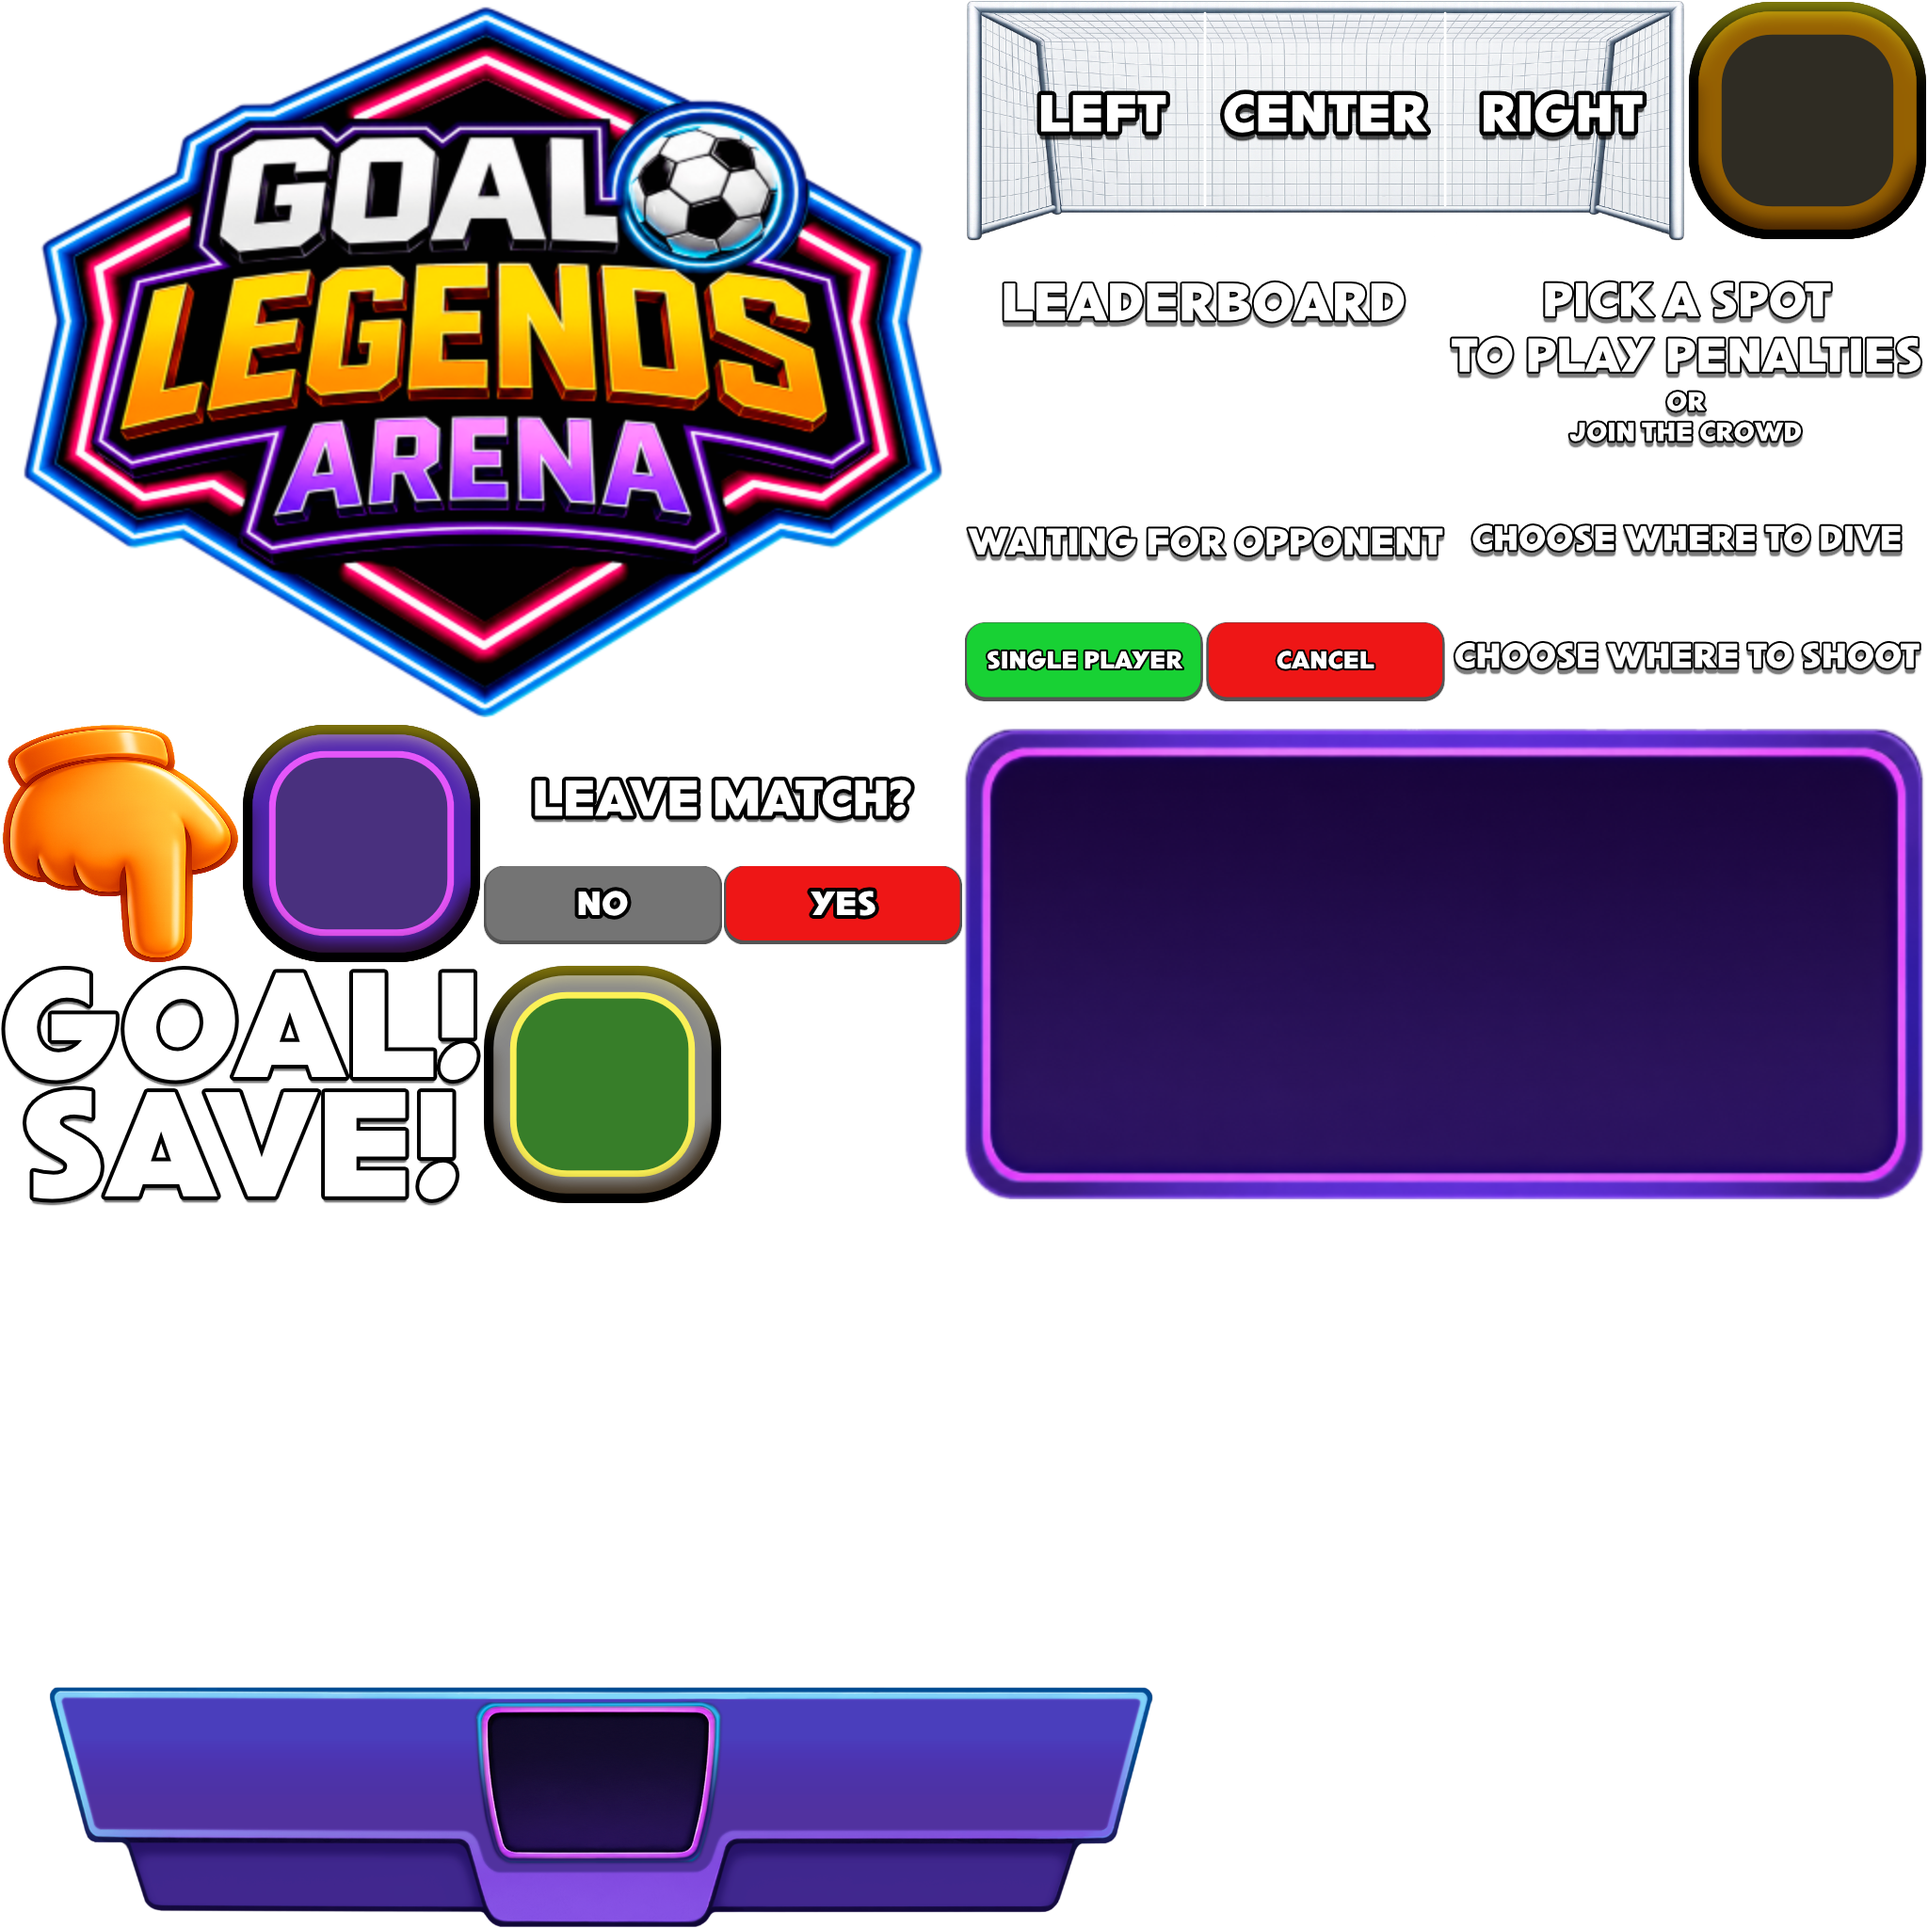
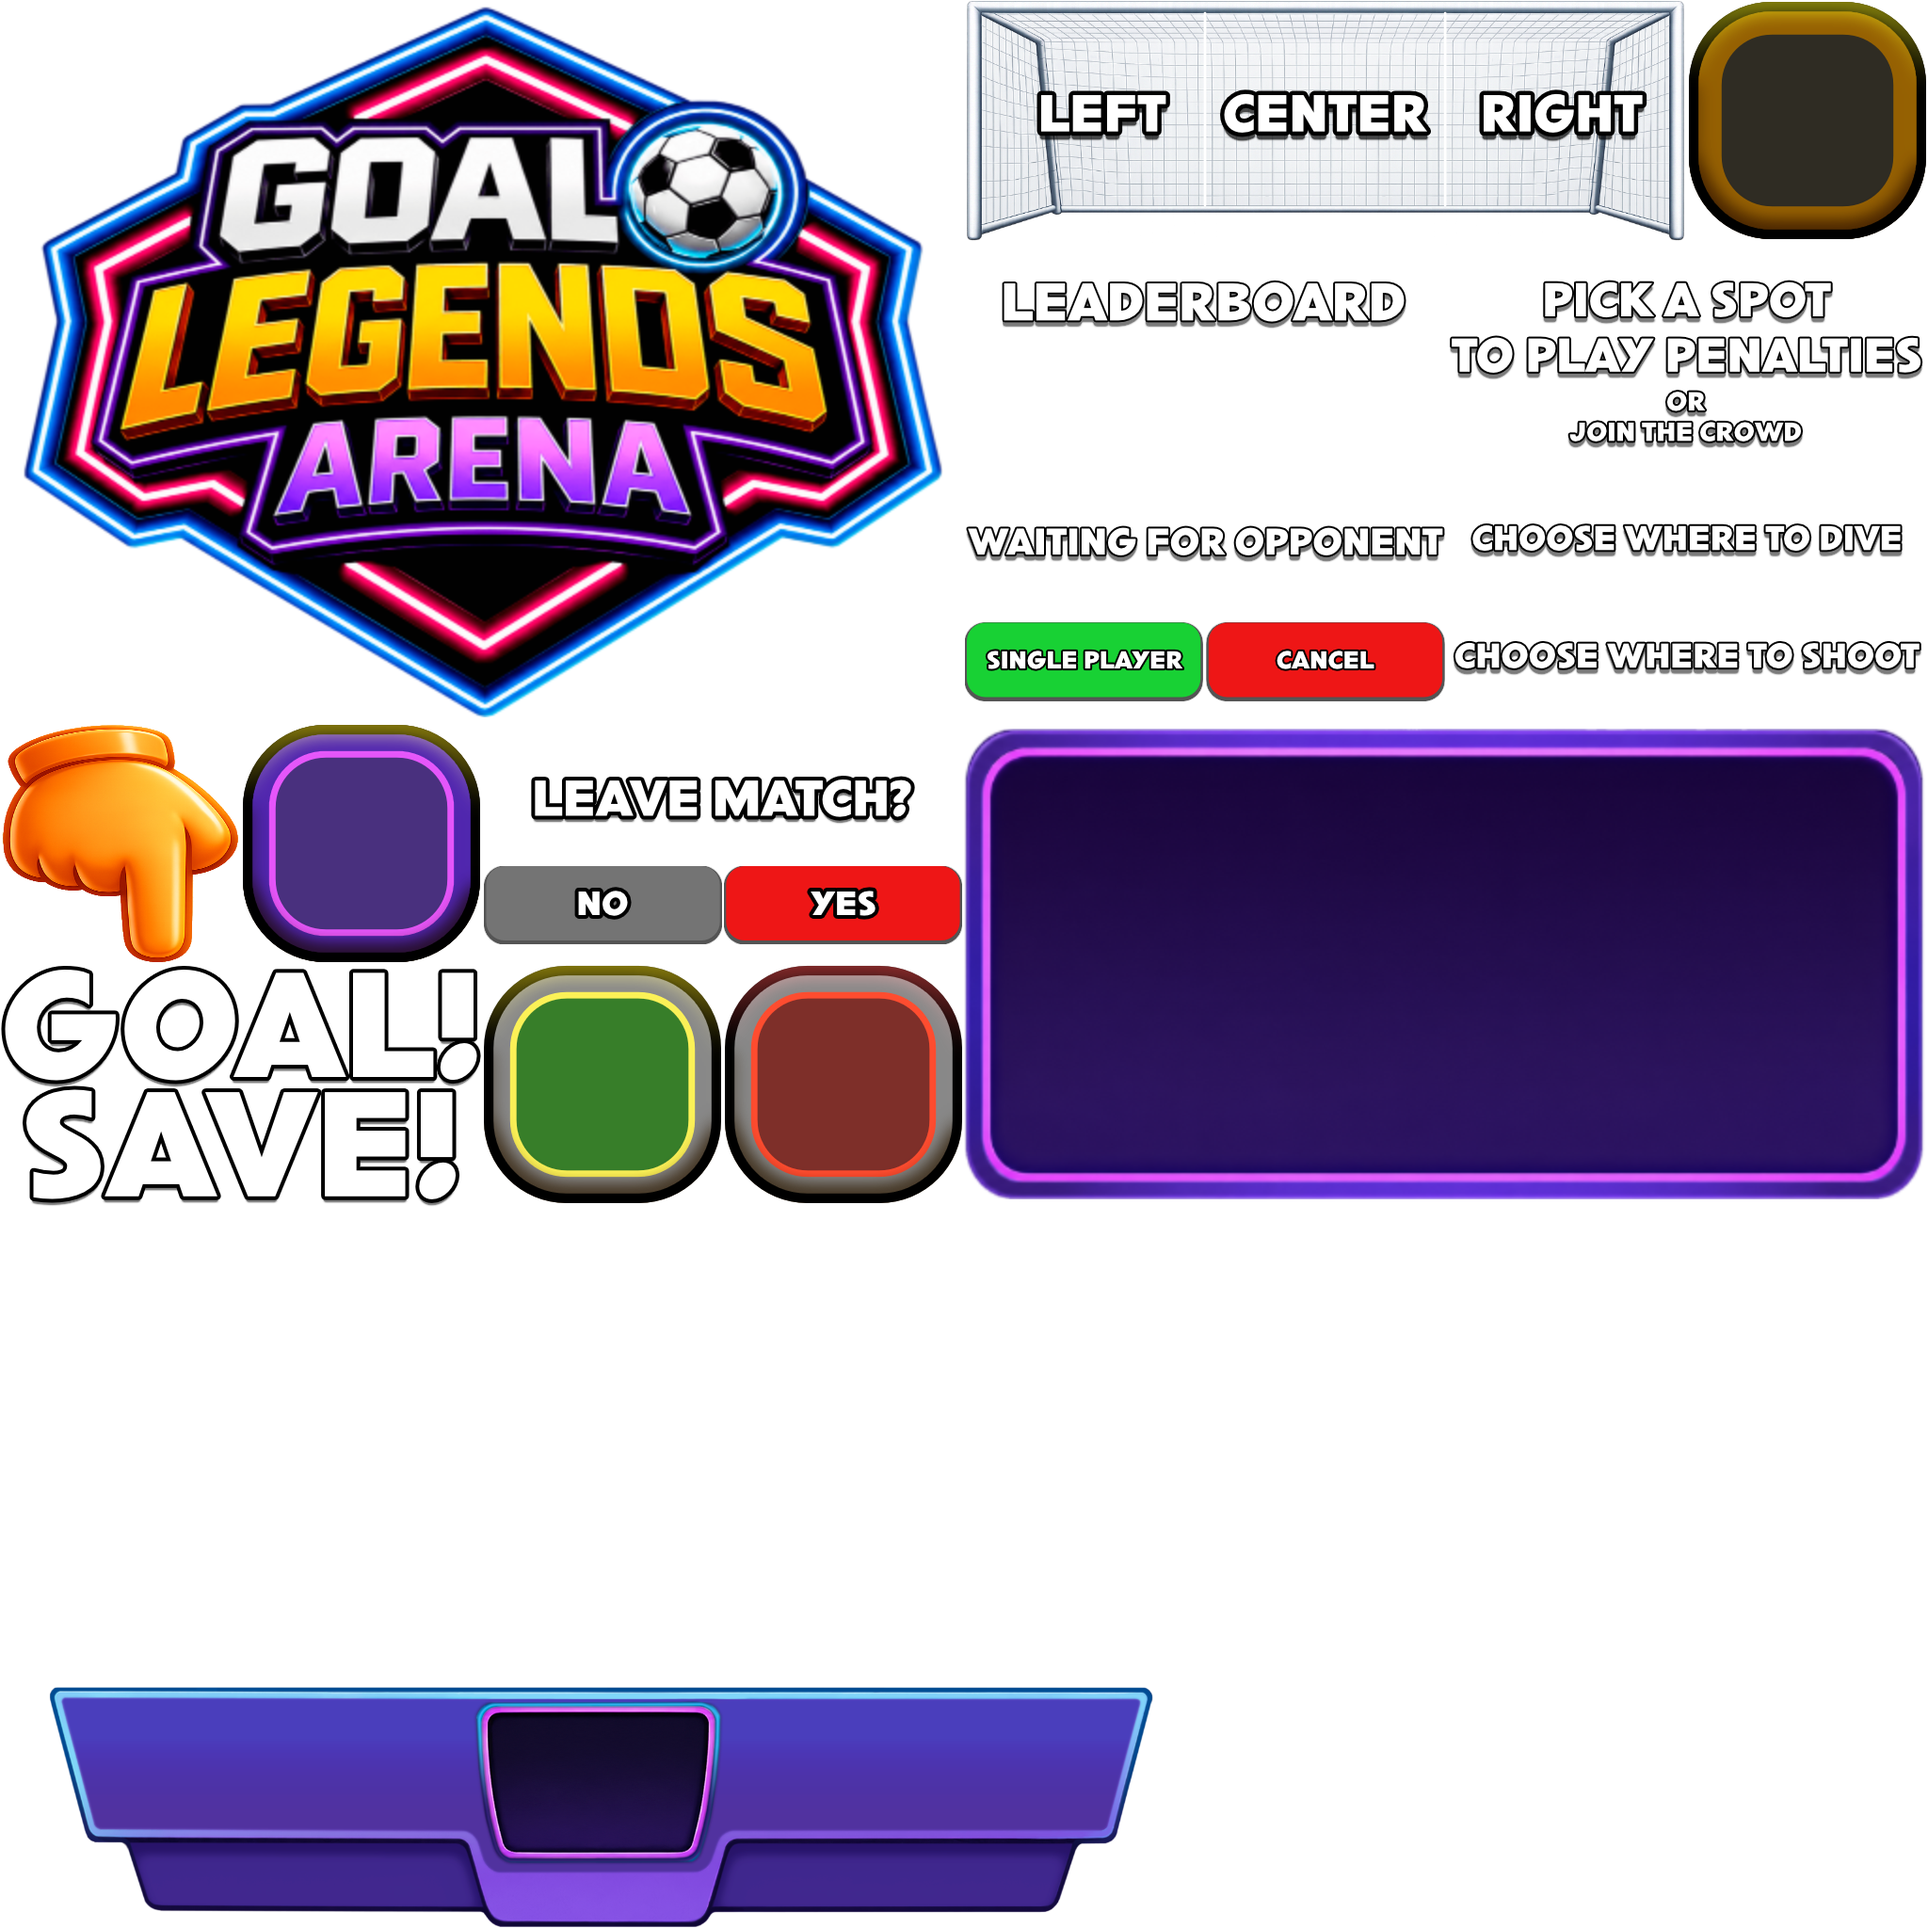
Improve "$username left the match" with nine-slice background

Changed region(s): [[0.375, 0.5, 0.5, 0.625]]

diff --git a/src/client/uiManager.tsx b/src/client/uiManager.tsx
@@ -52,7 +52,8 @@ import {
   leaveMatchYesButtonBackground,
   goalSaveFrameSliceBackground,
   goalSaveGoalBannerBackground,
-  goalSaveSaveBannerBackground
+  goalSaveSaveBannerBackground,
+  matchEndFrameSliceBackground
 } from './uiAtlasStore'
 
 /**
@@ -105,21 +106,29 @@ function ellipsize(text: string, widthPx: number, fontSizePx: number): string {
   return text.slice(0, keep).trimEnd() + '...'
 }
 
-/** Nine-slice frame from the flag-selector atlas cell (B4), filling its relative parent. */
-function cpNineSliceFrame(slicePx: number, inset: number) {
+type NinthSlice = 1 | 2 | 3 | 4 | 5 | 6 | 7 | 8 | 9
+type SliceBg = (ninth: NinthSlice) => ReturnType<typeof countryPickerFrameSliceBackground>
+
+/** Generic nine-slice frame from any atlas cell helper, filling its relative parent. */
+function nineSliceFrame(sliceBg: SliceBg, slicePx: number, inset: number) {
   return (
     <UiEntity uiTransform={{ positionType: 'absolute', position: { top: 0, left: 0, right: 0, bottom: 0 }, zIndex: 0 }}>
-      <UiEntity uiTransform={{ positionType: 'absolute', position: { top: 0, left: 0 }, width: slicePx, height: slicePx }} uiBackground={countryPickerFrameSliceBackground(1)} />
-      <UiEntity uiTransform={{ positionType: 'absolute', position: { top: 0, right: 0 }, width: slicePx, height: slicePx }} uiBackground={countryPickerFrameSliceBackground(3)} />
-      <UiEntity uiTransform={{ positionType: 'absolute', position: { bottom: 0, left: 0 }, width: slicePx, height: slicePx }} uiBackground={countryPickerFrameSliceBackground(7)} />
-      <UiEntity uiTransform={{ positionType: 'absolute', position: { bottom: 0, right: 0 }, width: slicePx, height: slicePx }} uiBackground={countryPickerFrameSliceBackground(9)} />
-      <UiEntity uiTransform={{ positionType: 'absolute', position: { top: 0, left: inset, right: inset }, height: slicePx }} uiBackground={countryPickerFrameSliceBackground(2)} />
-      <UiEntity uiTransform={{ positionType: 'absolute', position: { bottom: 0, left: inset, right: inset }, height: slicePx }} uiBackground={countryPickerFrameSliceBackground(8)} />
-      <UiEntity uiTransform={{ positionType: 'absolute', position: { top: inset, bottom: inset, left: 0 }, width: slicePx }} uiBackground={countryPickerFrameSliceBackground(4)} />
-      <UiEntity uiTransform={{ positionType: 'absolute', position: { top: inset, bottom: inset, right: 0 }, width: slicePx }} uiBackground={countryPickerFrameSliceBackground(6)} />
-      <UiEntity uiTransform={{ positionType: 'absolute', position: { top: inset, bottom: inset, left: inset, right: inset } }} uiBackground={countryPickerFrameSliceBackground(5)} />
+      <UiEntity uiTransform={{ positionType: 'absolute', position: { top: 0, left: 0 }, width: slicePx, height: slicePx }} uiBackground={sliceBg(1)} />
+      <UiEntity uiTransform={{ positionType: 'absolute', position: { top: 0, right: 0 }, width: slicePx, height: slicePx }} uiBackground={sliceBg(3)} />
+      <UiEntity uiTransform={{ positionType: 'absolute', position: { bottom: 0, left: 0 }, width: slicePx, height: slicePx }} uiBackground={sliceBg(7)} />
+      <UiEntity uiTransform={{ positionType: 'absolute', position: { bottom: 0, right: 0 }, width: slicePx, height: slicePx }} uiBackground={sliceBg(9)} />
+      <UiEntity uiTransform={{ positionType: 'absolute', position: { top: 0, left: inset, right: inset }, height: slicePx }} uiBackground={sliceBg(2)} />
+      <UiEntity uiTransform={{ positionType: 'absolute', position: { bottom: 0, left: inset, right: inset }, height: slicePx }} uiBackground={sliceBg(8)} />
+      <UiEntity uiTransform={{ positionType: 'absolute', position: { top: inset, bottom: inset, left: 0 }, width: slicePx }} uiBackground={sliceBg(4)} />
+      <UiEntity uiTransform={{ positionType: 'absolute', position: { top: inset, bottom: inset, right: 0 }, width: slicePx }} uiBackground={sliceBg(6)} />
+      <UiEntity uiTransform={{ positionType: 'absolute', position: { top: inset, bottom: inset, left: inset, right: inset } }} uiBackground={sliceBg(5)} />
     </UiEntity>
   )
+}
+
+/** Nine-slice frame from the flag-selector atlas cell (B4), filling its relative parent. */
+function cpNineSliceFrame(slicePx: number, inset: number) {
+  return nineSliceFrame(countryPickerFrameSliceBackground, slicePx, inset)
 }
 
 /** Scoreboard pic/flag sizes in px; ×1.5 on mobile (same factor as fs). */
@@ -2024,19 +2033,35 @@ const lbRows = getLeaderboardRows(s.leaderboardJson, LEADERBOARD_TOP_N)
           ) : (
             <UiEntity
               uiTransform={{
-                padding: 32,
+                positionType: 'relative',
                 display: 'flex',
                 flexDirection: 'column',
-                alignItems: 'center'
+                alignItems: 'stretch'
               }}
-              uiBackground={{ color: Color4.create(0.1, 0.08, 0.08, 0.92) }}
             >
-              <Label
-                value={s.winnerName}
-                fontSize={fs(40)}
-                color={Color4.create(0.9, 0.6, 0.6, 1)}
-                textAlign="middle-center"
-              />
+              {nineSliceFrame(matchEndFrameSliceBackground, cpSlicePx, cpInset)}
+              <UiEntity
+                uiTransform={{
+                  positionType: 'relative',
+                  display: 'flex',
+                  flexDirection: 'column',
+                  alignItems: 'center',
+                  padding: {
+                    top: cpSlicePx + 24,
+                    bottom: cpSlicePx + 24,
+                    left: cpSlicePx + 40,
+                    right: cpSlicePx + 40
+                  },
+                  zIndex: 1
+                }}
+              >
+                <Label
+                  value={s.winnerName}
+                  fontSize={fs(40)}
+                  color={Color4.White()}
+                  textAlign="middle-center"
+                />
+              </UiEntity>
             </UiEntity>
           )}
         </UiEntity>

diff --git a/src/client/uiAtlasStore.ts b/src/client/uiAtlasStore.ts
@@ -222,6 +222,13 @@ export function goalSaveFrameSliceBackground(ninth: 1 | 2 | 3 | 4 | 5 | 6 | 7 | 
   return atlasCellFrameSliceBackground(GOAL_SAVE_FRAME_CELL, ninth)
 }
 
+/** Match-end "left the match" / timeout panel frame: cell D5 of 8×8 UI_atlas. */
+export const MATCH_END_FRAME_CELL = 'D5'
+
+export function matchEndFrameSliceBackground(ninth: 1 | 2 | 3 | 4 | 5 | 6 | 7 | 8 | 9) {
+  return atlasCellFrameSliceBackground(MATCH_END_FRAME_CELL, ninth)
+}
+
 /** GOAL — top half of UI_atlas A5–B5. */
 export function goalSaveGoalBannerBackground() {
   return uiAtlasRangeHalfBackground('A5', 'B5', true)

diff --git a/src/server/matchController.ts b/src/server/matchController.ts
@@ -731,7 +731,7 @@ export function registerServerMessages() {
     if (m.redAddr?.toLowerCase() === addr) leaverName = m.redName
     else if (m.blueAddr?.toLowerCase() === addr) leaverName = m.blueName
     else return
-    endMatchNoWinner(`@${leaverName} abandoned the match`)
+    endMatchNoWinner(`@${leaverName}\nleft the match`)
   })
 
   // Cancel puro durante WaitingOpponent: limpia el spot del jugador, vuelve al lobby
